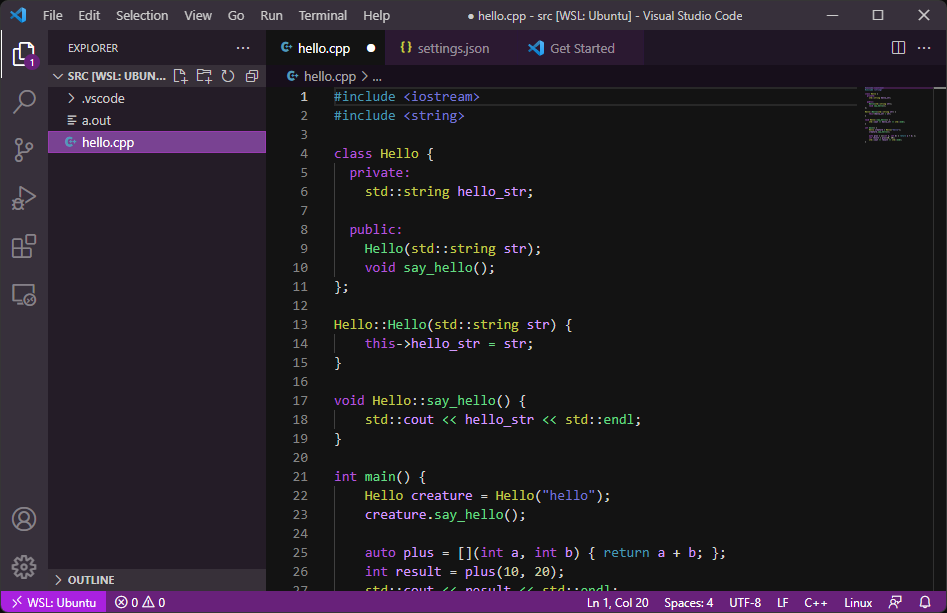
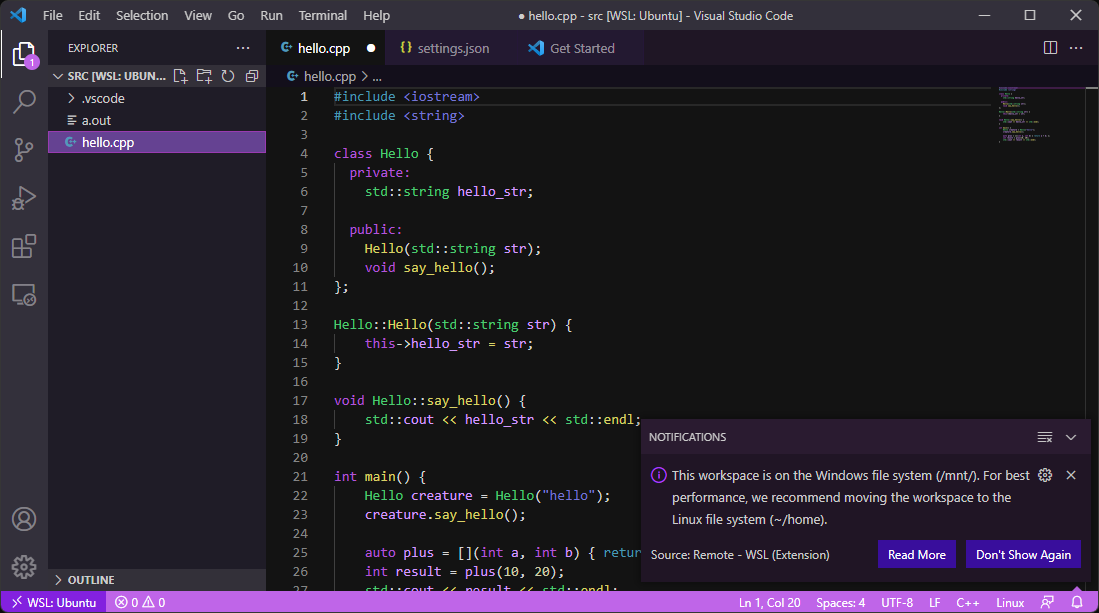
update: ver 0.0.5 少し青よりにした

diff --git a/README.md b/README.md
@@ -52,4 +52,4 @@ Looks like the following.
     * I would be very happy if you could pull request.
 
 # 変更したいところ
-紫すぎるので、なんとか落ち着いた雰囲気にしたい。
+暗すぎるので、もう少し明るくしたい。
